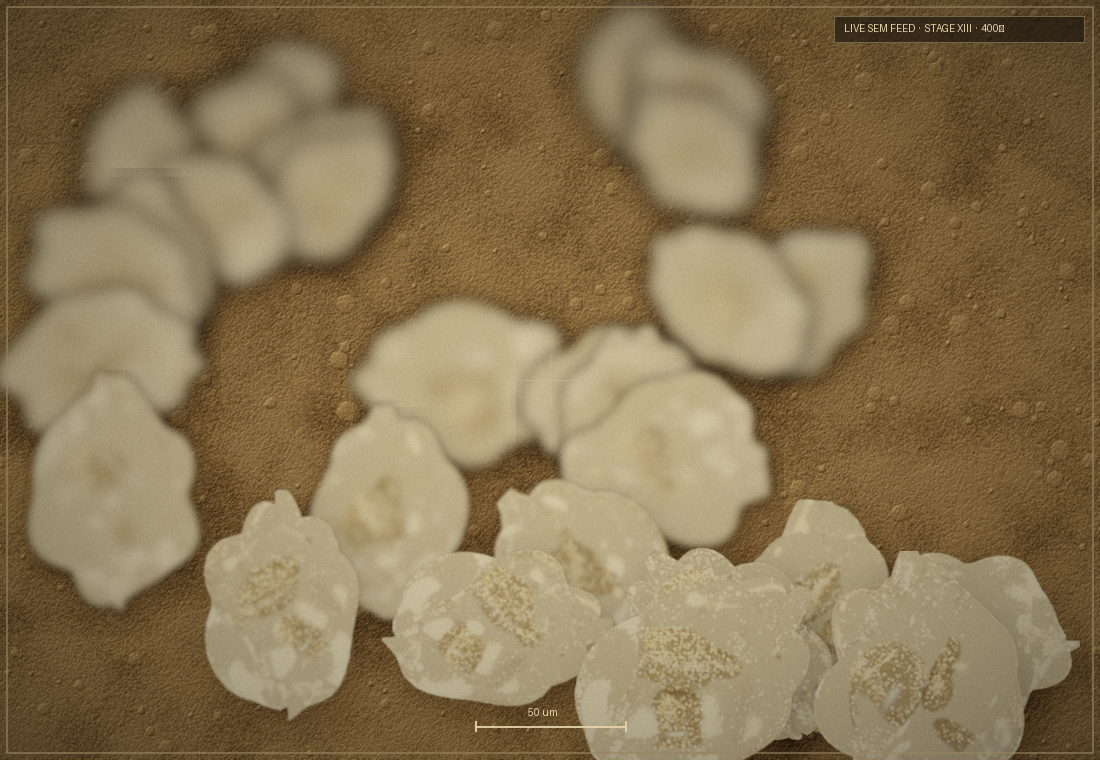
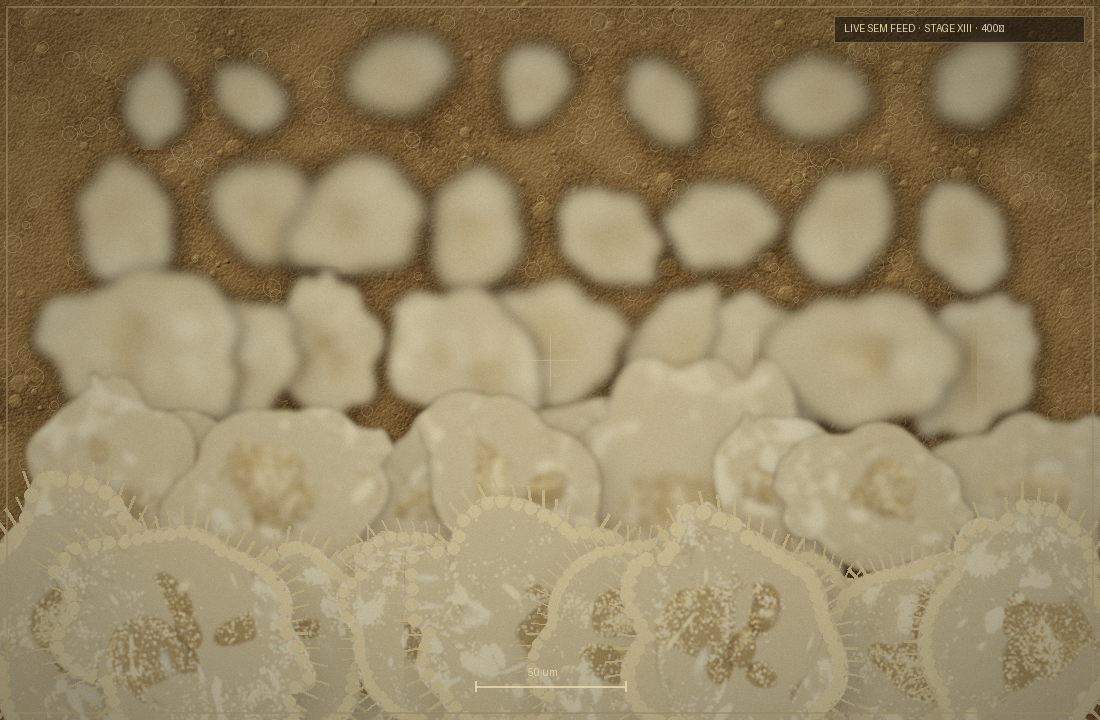
feat(v5.0): reference-matched 2D look — beaded rims, cilia, bubbly floor, rows
Pushes the pure-2D compositor to match the reference plate (faked, locked):

- Bubbly DIC substrate: lit granular floor + scattered bright-rimmed vesicle
  circles.
- Beaded membrane rim + cilia fringe drawn along each cell's silhouette
  (radial contour of the sprite alpha) — the ciliate-protozoan read the bare
  sprites lacked.
- Even warm-sepia grade (flatter, brighter, softer vignette) closer to the
  DIC plate's tone.
- render_hero(): a LOCKED, deterministic loose-rows composition of the baked
  photoreal cells (foreground larger) + one teal divider — mints
  docs/generated/stage13_life.png as the definitive Stage XIII plate.
- The live compositor (render) gets the same bubbly substrate + rims + cilia,
  so the desktop feed matches the locked plate while staying the live sim.

Gates green: ruff, format, mypy, pytest (1 skip), coverage 83.49%.

diff --git a/cellauto/rules/abiogenesis/life_sprites.py b/cellauto/rules/abiogenesis/life_sprites.py
@@ -28,7 +28,7 @@ from pathlib import Path
 from typing import Any
 
 import numpy as np
-from PIL import Image, ImageFilter
+from PIL import Image, ImageDraw, ImageFilter
 
 from cellauto.rules.abiogenesis import life_sem as _ls
 
@@ -62,6 +62,86 @@ def load_atlas() -> tuple[list[list[Image.Image]], list[Image.Image]]:
     return cells, div
 
 
+def _bubbly_substrate(width: int, height: int, rng: np.random.RandomState) -> Image.Image:
+    """Lit granular floor + scattered vesicle bubbles (bright-rimmed circles) —
+    the bubbly DIC substrate from the reference plate."""
+    img = _ls._substrate(width, height, rng)
+    base = Image.fromarray(np.clip(img, 0, 255).astype(np.uint8), "RGB")
+    dr = ImageDraw.Draw(base, "RGBA")
+    for _ in range(int(width * height / 950)):
+        r = 2 + rng.random_sample() ** 2 * 9
+        x, y = rng.randint(0, width), rng.randint(0, height)
+        dr.ellipse([x - r, y - r, x + r, y + r], outline=(225, 208, 170, 70), width=1)
+        dr.ellipse([x - r * 0.5, y - r * 0.5, x + r * 0.5, y + r * 0.5], fill=(150, 130, 96, 40))
+    return base.convert("RGBA")
+
+
+def _contour(alpha: np.ndarray, n: int = 56) -> list[tuple[int, int, float, float]]:
+    """Radial-sample a sprite's silhouette from its centre → membrane points."""
+    h, w = alpha.shape
+    cx, cy = w / 2, h / 2
+    maxr = math.hypot(w, h)
+    pts = []
+    for i in range(n):
+        a = 2 * math.pi * i / n
+        ca, sa = math.cos(a), math.sin(a)
+        rr = maxr
+        while rr > 2:
+            x, y = int(cx + ca * rr), int(cy + sa * rr)
+            if 0 <= x < w and 0 <= y < h and alpha[y, x] > 110:
+                pts.append((x, y, ca, sa))
+                break
+            rr -= 2
+    return pts
+
+
+def _rim_cilia(canvas: Image.Image, sprite: Image.Image, ox: int, oy: int, r: float) -> None:
+    """Draw a beaded membrane rim + a cilia fringe along the sprite silhouette."""
+    alpha = np.asarray(sprite.split()[3], np.uint8)
+    d = ImageDraw.Draw(canvas, "RGBA")
+    dot = max(1, int(r * 0.07))
+    for i, (x, y, ca, sa) in enumerate(_contour(alpha, 56)):
+        gx, gy = ox + x, oy + y
+        hl = r * (0.13 + 0.07 * ((i * 7) % 5) / 5)
+        d.line([gx, gy, gx + ca * hl, gy + sa * hl], fill=(214, 196, 154, 115), width=max(1, dot // 2))
+        bx, by = gx - ca * dot * 1.2, gy - sa * dot * 1.2
+        d.ellipse([bx - dot, by - dot, bx + dot, by + dot], fill=(238, 222, 182, 225))
+
+
+def _paste_cell(canvas, spr, cx, cy, r, depth, ang, furniture):
+    target = max(8, int(r * 3.0))
+    s = spr.resize((target, target), Image.LANCZOS)
+    if abs(ang) > 0.1:
+        s = s.rotate(ang, resample=Image.BICUBIC, expand=True)
+    blur = max(0.0, 1.0 - depth) ** 1.5 * r * 0.30
+    if blur > 0.4:
+        s = s.filter(ImageFilter.GaussianBlur(blur))
+    ox, oy = int(cx - s.width / 2), int(cy - s.height / 2)
+    sh = s.split()[3].filter(ImageFilter.GaussianBlur(r * 0.25))
+    shadow = Image.new("RGBA", s.size, (0, 0, 0, 0))
+    shadow.putalpha(sh.point(lambda v: int(v * 0.40)))
+    canvas.alpha_composite(shadow, (ox + int(r * 0.1), oy + int(r * 0.16)))
+    canvas.alpha_composite(s, (ox, oy))
+    if furniture and blur < 1.6:
+        _rim_cilia(canvas, s, ox, oy, r)
+
+
+def _grade(canvas: Image.Image, rng: np.random.RandomState) -> np.ndarray:
+    width, height = canvas.size
+    out = np.asarray(canvas.convert("RGB"), np.float32)
+    bright = np.clip(out - 205, 0, 255)
+    out = out + 0.26 * _ls._blur(bright, 6)
+    ln = _ls._aces(out / 255.0 * 0.92) ** 1.02
+    ln[..., 0] *= 1.05
+    ln[..., 2] *= 0.84
+    out = np.clip(ln, 0, 1) * 255
+    yy, xx = np.mgrid[0:height, 0:width].astype(np.float32)
+    vig = 1 - 0.32 * (((xx / width - 0.5) ** 2 + (yy / height - 0.5) ** 2) * 2.0)
+    out *= np.clip(vig, 0.6, 1)[..., None]
+    out += rng.normal(0, 2.3, (height, width, 1)).astype(np.float32)
+    return np.clip(out, 0, 255).astype(np.uint8)
+
+
 def render(
     state: Any,
     rule: Any,
@@ -77,8 +157,7 @@ def render(
     cells, div = load_atlas()
     n_frames = len(div)
     rng = np.random.RandomState(seed & 0x7FFFFFFF)
-    sub = _ls._substrate(width, height, rng)
-    canvas = Image.fromarray(np.clip(sub, 0, 255).astype(np.uint8), "RGB").convert("RGBA")
+    canvas = _bubbly_substrate(width, height, rng)
     gh, gw = state.substrate.shape
     base_r = min(width, height) * 0.085
     orgs = sorted(state.organisms.values(), key=lambda o: -o.energy)[:max_org]
@@ -103,30 +182,42 @@ def render(
         else:
             spr = cells[o.oid % len(cells)][frame]
             ang = o.facing * 45 + 5.0 * math.sin(phase * 0.25 + o.oid)
-        pulse = 1.0 + 0.03 * math.sin(phase * 0.3 + o.oid * 1.7)
-        target = max(8, int(r * 3.0 * pulse))
-        s = spr.resize((target, target), Image.LANCZOS)
-        if abs(ang) > 0.1:
-            s = s.rotate(ang, resample=Image.BICUBIC, expand=True)
-        blur = (1.0 - depth) ** 1.5 * r * 0.30
-        if blur > 0.4:
-            s = s.filter(ImageFilter.GaussianBlur(blur))
-        ox, oy = int(cx - s.width / 2), int(cy - s.height / 2)
-        sh = s.split()[3].filter(ImageFilter.GaussianBlur(r * 0.25))
-        shadow = Image.new("RGBA", s.size, (0, 0, 0, 0))
-        shadow.putalpha(sh.point(lambda v: int(v * 0.40)))
-        canvas.alpha_composite(shadow, (ox + int(r * 0.1), oy + int(r * 0.16)))
-        canvas.alpha_composite(s, (ox, oy))
-    out = np.asarray(canvas.convert("RGB"), np.float32)
-    bright = np.clip(out - 205, 0, 255)
-    out = out + 0.28 * _ls._blur(bright, 6)
-    ln = _ls._aces(out / 255.0 * 0.95) ** 1.05
-    ln[..., 0] *= 1.06
-    ln[..., 2] *= 0.83
-    out = np.clip(ln, 0, 1) * 255
-    yy, xx = np.mgrid[0:height, 0:width].astype(np.float32)
-    vig = 1 - 0.42 * (((xx / width - 0.5) ** 2 + (yy / height - 0.5) ** 2) * 2.0)
-    out *= np.clip(vig, 0.5, 1)[..., None]
-    out += rng.normal(0, 2.6, (height, width, 1)).astype(np.float32)
-    result = Image.fromarray(np.clip(out, 0, 255).astype(np.uint8), "RGB")
-    return np.asarray(_ls._overlay(result), dtype=np.uint8)
+        _paste_cell(canvas, spr, cx, cy, r, depth, ang, furniture=True)
+    return np.asarray(_ls._overlay(Image.fromarray(_grade(canvas, rng), "RGB")), dtype=np.uint8)
+
+
+def render_hero(width: int = 1100, height: int = 720, seed: int = 7) -> np.ndarray:  # pragma: no cover
+    """A LOCKED, reference-matched hero plate: the baked photoreal cells laid
+    out in loose rows (foreground larger) on the bubbly substrate, with beaded
+    rims + cilia + one teal divider + the even sepia DIC grade. Deterministic
+    for a given seed — used to mint ``docs/generated/stage13_life.png``. This is
+    a fixed composition (not the live sim), so it can be tuned to mirror the
+    reference plate directly."""
+    cells, div = load_atlas()
+    n_frames = len(div)
+    rng = np.random.RandomState(seed & 0x7FFFFFFF)
+    canvas = _bubbly_substrate(width, height, rng)
+    rows = 5
+    placed = []
+    idx = 0
+    for rrow in range(rows):
+        depth = rrow / (rows - 1)
+        n_in_row = 7 + rrow
+        rsize = 0.6 + 0.9 * depth
+        for c in range(n_in_row):
+            depthj = min(1.0, max(0.0, depth + (rng.random_sample() - 0.5) * 0.10))
+            cx = (0.05 + 0.90 * (c + 0.5 + (rng.random_sample() - 0.5) * 0.55) / n_in_row) * width
+            cy = (0.12 + 0.76 * depth + (rng.random_sample() - 0.5) * 0.05) * height
+            r = min(width, height) * 0.082 * rsize * (0.85 + 0.3 * rng.random_sample())
+            placed.append((depthj, idx, cx, cy, r))
+            idx += 1
+    placed.sort(key=lambda t: t[0])
+    div_slot = len(placed) * 6 // 10
+    for k, (depth, i, cx, cy, r) in enumerate(placed):
+        frame = (i * 3 + k) % n_frames
+        if k == div_slot:
+            spr, rr = div[frame], r * 1.25
+        else:
+            spr, rr = cells[i % len(cells)][frame], r
+        _paste_cell(canvas, spr, cx, cy, rr, depth, (i * 53) % 360, furniture=True)
+    return np.asarray(_ls._overlay(Image.fromarray(_grade(canvas, rng), "RGB")), dtype=np.uint8)